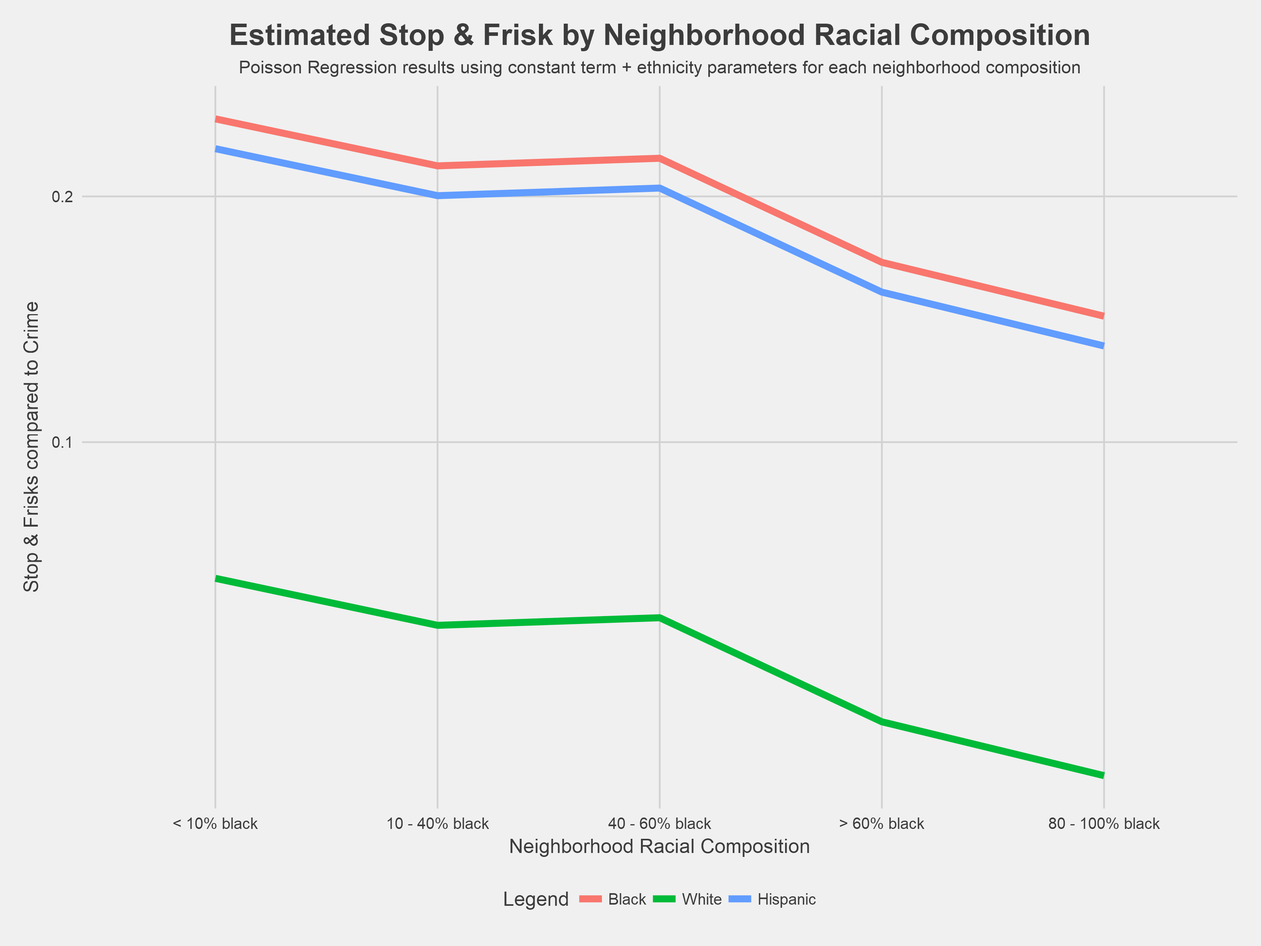
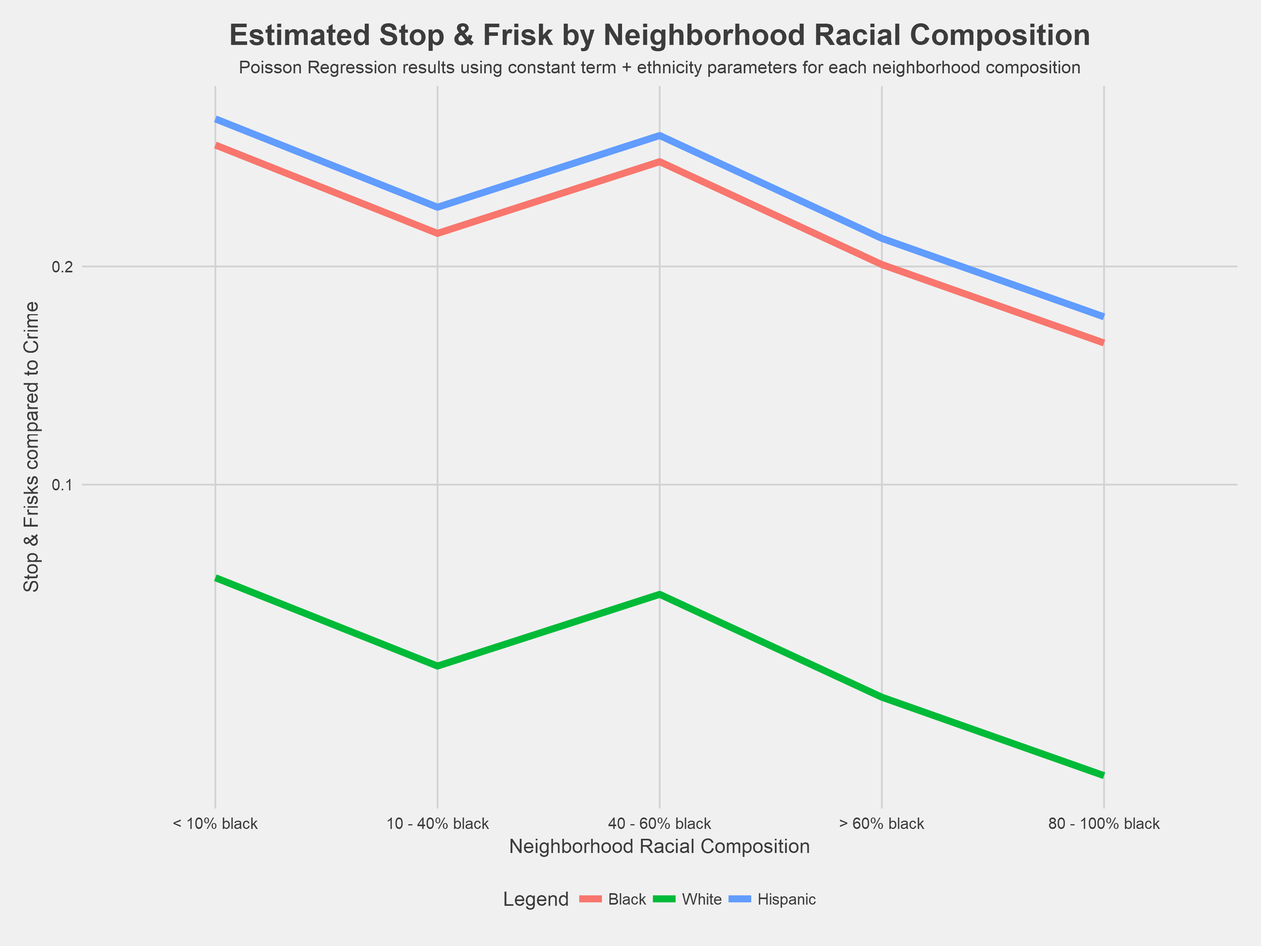
Stop & Frisk: Mahkah's edits

Changed region(s): [[0.1562, 0.125, 0.8747, 0.375], [0.4686, 0.625, 0.8435, 0.8125], [0.1874, 0.5938, 0.4686, 0.7188]]

diff --git a/_posts/2018-05-09-Stop-_-Frisk.md b/_posts/2018-05-09-Stop-_-Frisk.md
@@ -9,11 +9,11 @@ author: August Warren & Mahkah Wu
 Key Findings
 --------------
 
-* Overall, black residents, and particularly young black male residents, were stopped at a rate well in excess of both the proportion of black residents living in DC and the proportion of reported crime committed by black residents. White residents were stopped at a rate lower than the analogous population and crime proportions. Each of Washington DC's 39 neighborhoods have distinct racial makeups, but these disproportionalities persist within all of them. MW: IS IT A PLURALITY, MAJORITY, OR ALL OF THEM?
+* Overall, black residents, and particularly young black male residents, were stopped at a rate well in excess of both the proportion of black residents living in DC and the proportion of reported crime committed by black residents. White residents were stopped at a rate lower than the analogous population and crime proportions. Each of Washington DC's 39 neighborhoods have distinct racial makeups, but these disproportionalities persist within a majority of neighborhoods.
 
-* There exists a strong linear relationship between a neighborhood's annual crime level and that neighborhood's stop and frisk level over the subsequent year. However, neighborhoods with higher black populations have a higher stop and frisk level than this relationship would suggest. Specifically, neighborhoods with the highest concentration of residents of color (90-100% residents of color) have, on average, ~47 more stop and frisk incidents per year compared to whitest neighborhoods (10-40% residents of color MW: OR SHOULD THIS BE 0-10%?) when crime is held constant.
+* There exists a strong linear relationship between a neighborhood's annual crime level and that neighborhood's stop and frisk level over the subsequent year. However, neighborhoods with higher black populations have a higher stop and frisk level than this relationship would suggest. Specifically, neighborhoods with the highest concentration of residents of color (90-100% residents of color) have, on average, ~47 more stop and frisk incidents per year compared to whitest neighborhoods (0-40% residents of color) when crime is held constant.
 
-* Black residents were stopped at a rate 3 times higher than white residents across all DC neighborhoods when attempting to account for criminality by using the respective racial cohort's crime level over the previous year as an offset. The rate generally increases in neighborhoods with a lower proportion of black residents.
+* In 2016, black residents were stopped at a rate 3 times higher than white residents across all DC neighborhoods when attempting to account for criminality by using the respective racial cohort's crime level as an offset. The rate generally increases in neighborhoods with a lower proportion of black residents.
 
 * This analysis includes an [interactive map](https://rawgit.com/mahkah/dc_stop_and_frisk/master/index.html) and [neighborhood explorer application](https://dc-stop-frisk.herokuapp.com/) that enable users to look for trends and patterns not covered in this analysis.
 
@@ -38,9 +38,17 @@ Various DC advocacy organizations, including Black Lives Matter DC, Stop Police 
 
 DC Judiciary and Public Safety Chairman Charles Allen questioned DC Police Chief Peter Newsham as to why the mandated data had not been collected earlier this year; Newsham stated that the MPD [was "guilty" of not following the stop and frisk data collection](https://www.wusa9.com/article/news/local/dc/dc-police-chief-police-guilty-of-not-following-stop-and-frisk-data-collection-law/65-533509822) but had worked to develop other data systems mandated by the NEAR Act. Although the Council allocated $150,000 specifically for stop and frisk data collection in fiscal year 2018, the MPD found [the work of reviewing and sorting the data to be overly "laborious and costly" and did not utilize the funding](https://www.scribd.com/document/374911762/NEAR-Act-Inquiry). The MPD has found the resources and time to building other data systems, including those that highlight crime rather than enforcement, like [DC Crime Cards](https://dcatlas.dcgis.dc.gov/crimecards/).
 
-We didn't come into this project familiar with the inner workings of the NEAR Act or the steps the MPD has taken towards compliance. Rather, there were questions other researchers have tackled that we wanted to investigate in DC, like [this really incredible research on racial disparities in "hit-rates," or arrest rates](https://5harad.com/papers/frisky.pdf), but we were confronted with a lack of detailed data. We will follow the ongoing litigation against the MPD and the Mayor's office and update the work below if further data is provided. If you want to see the NEAR Act fully implemented or want to hold law enforcement accountable and transparent, please consider supporting the work being done by organizations like [Black Lives Matter DC](http://www.blacklivesmatterdmv.org/), [Stop Police Terror Project DC](https://www.sptdc.com/), and [the American Civil Liberties Union of the District of Columbia](https://www.acludc.org/en) in their legal fight.
+If you want to see the NEAR Act fully implemented or want to hold law enforcement accountable and transparent, please consider supporting the work being done by organizations like [Black Lives Matter DC](http://www.blacklivesmatterdmv.org/), [Stop Police Terror Project DC](https://www.sptdc.com/), and [the American Civil Liberties Union of the District of Columbia](https://www.acludc.org/en) in their legal fight.
 
-This a living piece of research that attempts to provide a sense of understanding of a very complex social issue, and we are open to new ideas and viewpoints that we might have missed.
+We didn't come into this project familiar with the inner workings of the NEAR Act or the steps the MPD has taken towards compliance. Rather, there were questions other researchers have tackled that we wanted to investigate in DC, like [this really incredible research on racial disparities in "hit-rates," or arrest rates](https://5harad.com/papers/frisky.pdf), but we were confronted with a lack of detailed data.
+
+The available data did allow us to explore the following research questions: 1) Who is being stopped and frisked by the DC Metropolitan Police Department (MPD)? 2) How does the stop and frisk population compare to the overall population in DC? 3) How much are different groups of people being disproportionally targeted by stop and frisk? 
+
+Along with the stop and frisk data, the MPD also reported on "field contact reports" from 2012 to 2017. According to the [documentation](https://go.mpdconline.com/GO/GO_OPS_304_10.pdf), a field contact is a non-forcible stop and/or questioning between MPD and a citizen, although it is unclear whether citizens stopped non-forcibly know they do not need to speak with police. Forcible contacts make up the lion's share of all interactions, accounting for more than 28,000 incidents over the five years data was collected, compared to about 11,000 non-forcible stops. 
+
+For the majority of the analysis, we made the decision to specifically examine forcible stops. However, we spent a bit of time looking at both forcible and non-forcible stops; this analysis can be found in the [appendix](#appendix).
+
+This a living piece of research that attempts to provide a sense of understanding of a very complex social issue, and we are open to new ideas and viewpoints that we might have missed. We will follow the ongoing litigation against the MPD and the Mayor's office and update the work below if further data is provided. 
 
 Stop & Frisk: Overview
 --------------
@@ -55,7 +63,9 @@ Overall, the vast majority of these incidents involve people of color, specifica
 
 ![](https://raw.githubusercontent.com/GWarrenn/gwarrenn.github.io/drafts/images/stop_and_frisk/sf_race_youths.png)
 
-Age is another important factor in this conversation. Many of the stories underwriting the national conversation about race and policing have involved black youths and the police, often with fatal results. DC does not present a different story. Nearly 1 in 5 black residents stopped from 2010-2017 were children, compared to 2% among whites. Of all the trends analyzed here, we found this disparity to be the most striking. MW: DO YOU AGREE? I DON'T THINK THE OLD SENTENCE MAKES A LOT OF SENSE, BUT I HAVE STRUGGLED MIGHTLY TO COME UP WITH A GOOD REPLACEMENT
+Age is another important factor in this conversation. Many of the stories underwriting the national conversation about race and policing have involved black youths and the police, often with fatal results. DC does not present a different story. Nearly 1 in 5 black residents stopped from 2010-2017 were children, compared to 2% among whites. This trend is supported by [previous research](https://www.apa.org/pubs/journals/releases/psp-a0035663.pdf), which finds that the perceived age of black and Latino juvenile felony suspects is, on average, overestimated by five years.
+
+Of all the trends analyzed here, we found this disparity to be the most striking because of the effect of the trauma during the critical developmental period of childhood. These interactions between police and young black children have a [significant impact on their personal development and views towards police](http://digitalcommons.law.uga.edu/cgi/viewcontent.cgi?article=2059&context=fac_artchop), compounding existing tensions between the police and the communities that they serve. 
 
 ![](https://raw.githubusercontent.com/GWarrenn/gwarrenn.github.io/drafts/images/stop_and_frisk/sf_age_dist.png)
 
@@ -65,36 +75,12 @@ Reflecting the disparity among juvenile residents, black and Hispanic/Latino adu
 
 Generally, the majority of stop and frisk incidents occur after 5:00 PM and before 6:00 AM. There are some minor differences among racial lines. Incidents among whites peak in the late/early hours between 1:00 AM - 4:00 AM, while black residents experience higher frequency of incidents during the evening, with the highest proportion of incidents occurring around 9:00 PM.
 
-Forcible vs. Non-Forcible Incidents 
---------------
-
-MW: WHAT IF WE CALLED THIS AN APPENDIX AND MOVED IT TO THE END?
-
-Along with the stop and frisk data, the MPD also reported on "field contact reports" from 2012 to 2017. According to the [documentation](https://go.mpdconline.com/GO/GO_OPS_304_10.pdf), a field contact is a non-forcible stop and/or questioning between MPD and a citizen, although it is unclear whether citizens stopped non-forcibly know they do not need to speak with police. Forcible contacts make up the lion's share of all interactions, accounting for more than 28,000 incidents over the five years data was collected, compared to about 11,000 non-forcible stops. 
-
-For the majority of the preceding and later analysis, we made the decision to only consider forcible stops. However, we'll spend a bit of time looking at both forcible and non-forcible stops now.
-
-![](https://raw.githubusercontent.com/GWarrenn/gwarrenn.github.io/drafts/images/stop_and_frisk/race_contact.png)
-
-Overall, there is little difference in contact type by race. Around 80% of both non-forcible and forcible involved black residents; however, a slightly greater proportion (2.6%) of non-forcible stops involved white residents (though the total number of forcible stops in general is much higher than the non-forcible stops). 
-
-![](https://raw.githubusercontent.com/GWarrenn/gwarrenn.github.io/drafts/images/stop_and_frisk/gender_race_contact.png)
-
-Across all racial groups and stop types, people identified by MPD as male comprise a majority of incidents. However, there are some notable gender differences by contact type. Overall, women, especially white women, made up a greater proportion of non-forcible than forcible contact with the police. 
-
-Unlike the forcible stop and frisk incidents, the field contact incident data contains a record of what led to the contact, along with the standard demographics.
-
-![](https://raw.githubusercontent.com/GWarrenn/gwarrenn.github.io/drafts/images/stop_and_frisk/reason_for_stop.png)
-
-Keeping the important difference between forcible and non-forcible stops in mind, we see that moving violations were the catalyst for nearly half of the non-forcible encounters among whites, while non-forcible stops of black and Hispanic/Latino residents were initiated more frequently for "Suspicious Vehicles/Persons/Activities" and "Call for Service" (or, someone calling the police).
-
 Mapping Stop & Frisk Incidents
 --------------
 
 A critical part of the data provided by the MPD is a rough location of where the incident took place, generally either a reference to a block (e.g. '4200 BLOCK OF 7TH STREET SE') or a corner (e.g. '46TH STREET NE / CENTRAL AVENUE NE'). In order to get a mappable dataset, we cleaned up these addresses and extracted the incident street names. We merged this data to a full list of block centroids (provided by [DC OpenData](http://opendata.dc.gov/datasets/block-centroids)). We've published the [geocoded data](https://github.com/mahkah/dc_stop_and_frisk/blob/master/transformed_data/SF_Field%20Contact_02202018_locations.csv), as well as scripts to match the data in [R](https://github.com/GWarrenn/dc_data/blob/master/03_stop_frisk/scripts/stop_and_frisk.R) and [python](https://github.com/mahkah/dc_stop_and_frisk/blob/master/location_matching.py).
 
-MW: DID YOU GET A 95% LOCATION MATCH RATE? DOES THAT NOT INCLUDE MISSING ADDRESSES?
-Overall, we were able to match ~92% of the incidents provided by MPD to a latitude and longitude (The remaining addresses were either missing or not specific enough to be matched).
+Overall, we were able to match ~96% of forcible and ~82% of non-forcible incidents provided by MPD to a latitude and longitude (The remaining addresses were either missing or not specific enough to be matched).<sup>1</sup>
 
 Once we transformed the addresses to latitude and longitude, we used the R geospatial package 'sp' to classify each matched incident to one of 39 neighborhood clusters in DC to conduct the rest of the analysis presented here. We also created a district-wide map of stop and frisk incidents over the years by race/ethnicity and gender broken out by ward, neighborhood, police sector, police service area, and census tract. The mapping and associated data can be found [here](https://github.com/mahkah/dc_stop_and_frisk)
 
@@ -139,7 +125,9 @@ Falling between these two polar examples, stop and frisk rates with neighborhood
 
 ![](https://raw.githubusercontent.com/GWarrenn/gwarrenn.github.io/drafts/images/stop_and_frisk/07_nbh_diff_black.png)
 
-This chart shows the same disproportionality as the previous chart but focuses specifically on black residents stopped by MPD. It displays the proportion of stop and frisk incidents minus the census proportions, which is the vertical distance between the points and the diagonal line in the previous chart. 
+This chart shows the same disproportionality as the previous chart but focuses specifically on black residents stopped by MPD. This chart displays the proportion of stop and frisk incidents minus the census proportions. This is the same disproportionality in the previous chart measured by the vertical distance between the points and the diagonal line. 
+
+We can take a closer look at just the black residents stopped by the MPD. The above chat shows the proportion of stop and frisk incidents minus the census proportions, which is the vertical distance between the points and the diagonal line in the previous chart.
 
 The biggest disproportions are apparent in whiter, more affluent neighborhood clusters in Northwest DC, including Cleveland Park, Friendship Heights, Kalorama Heights, and Georgetown.
 
@@ -157,13 +145,15 @@ Throughout this section it's important to keep the words of [Hadley Wickham](htt
 
 How would you answer the question, "what’s the best way to allocate police to reduce crime in the city?" Many might answer: send more officers to areas with the highest amount of reported crimes. 
 
-I think that's how no-nonsense detective [Lennie Briscoe](https://en.wikipedia.org/wiki/Lennie_Briscoe) might respond, at least.
+That's how no-nonsense detective [Lennie Briscoe](https://en.wikipedia.org/wiki/Lennie_Briscoe) might respond, at least.
 
-In order to answer this question, I used crime data provided by the MPD, again through [OpenData DC](http://opendata.dc.gov/datasets?q=crime). Using a similar method as with the stop and frisk data, I matched individual reported crimes to each of the 39 neighborhoods using latitude and longitude provided by the MPD.
+In order to answer this question, we used crime data collected during the same time period as the stop and frisk data provided by the MPD, again through [OpenData DC](http://opendata.dc.gov/datasets?q=crime). Using a similar method as with the stop and frisk data, we matched individual reported crimes to each of the 39 neighborhoods using latitude and longitude provided by the MPD.
+
+This section will test the theory that stop and frisk is used not to target or profile specific neighborhoods based on their racial composition, but rather is used purely as a method to reduce crime by targeting high crime areas by preemptively stopping and questioning potential criminals.   
 
 ![](https://raw.githubusercontent.com/GWarrenn/gwarrenn.github.io/drafts/images/stop_and_frisk/08_crime_frisks.png)
 
-The chart above illustrates a pretty linear relationship between the previous years' reported crime level and stop and frisk in each neighborhood of DC. Of course, there are dozens and dozens of other confounding variables that influence crime and policing behavior not being considered in this simplistic approach, but if you were only to use this one variable to predict stop and frisk, you would end up with a model<sup>1</sup> like this:
+The chart above illustrates a pretty linear relationship between the previous years' reported crime level and stop and frisk in each neighborhood of DC. Of course, there are dozens and dozens of other confounding variables that influence crime and policing behavior not being considered in this simplistic approach, but if you were only to use this one variable to predict stop and frisk, you would end up with a model<sup>2</sup> like this:
 
 <table style="text-align:center"><tr><td colspan="2" style="border-bottom: 1px solid black"></td></tr><tr><td style="text-align:left"></td><td><em>Dependent variable:</em></td></tr>
 <tr><td></td><td colspan="1" style="border-bottom: 1px solid black"></td></tr>
@@ -223,11 +213,8 @@ Now that we see a clear need to incorporate the neighborhood's racial compositio
 
 The regression output below shows a fairly similar overall relationship between crime and stop and frisk. However, the crime & race model indicates that there is a statistically significant difference between the amount of stop and frisk in neighborhoods with 90% - 100% residents of color compared to the base category -- neighborhoods with 10% - 40% residents of color. There is no statistically significant difference observed with the intermediate neighborhood types.
 
-
 <details><summary><b>Click for an explanation of the regression model output</b></summary>
 <p>
-
-MW: I'M ASSUMING THESE DOLLAR SIGNS ARE FOR FORMATTING, BUT THEY'RE JUST COMING THROUGH AS DOLLAR SIGNS FOR ME
 
 $Total Stop & Frisk = (Prev. Year Crime * 0.102) + N$
 
@@ -273,7 +260,7 @@ Before we get into the personal level relationship between stop and frisk and cr
 
 ![](https://raw.githubusercontent.com/GWarrenn/gwarrenn.github.io/drafts/images/stop_and_frisk/crime_and_census_plot.png)
 
-One of the more apparent patterns we find is that black residents make up a larger proportion of <i>reported</i> crime in less black DC neighborhoods. The reasons for this are not apparent in the data; there are certain social factors that could cause this, such as [white residents being more likely to call the police](https://www.vox.com/first-person/2018/5/17/17362100/starbucks-racial-profiling-yale-airbnb-911) or black residents may simply commit a disproportionate share of crimes in these neighborhoods. MW: MAYBE TALKING ABOUT THIS TREND DOESN'T TAKE YOU IN A PLACE THAT YOU WANT TO GO
+One of the more apparent patterns we find is that black residents make up a larger proportion of <i>reported</i> crime in less black DC neighborhoods. The reasons for this are not apparent in the data; there are certain social factors that could cause this, such as [white residents being more likely to call the police](https://www.vox.com/first-person/2018/5/17/17362100/starbucks-racial-profiling-yale-airbnb-911) or black residents may simply commit a disproportionate share of crimes in these neighborhoods. The answers to this question are not immediately available and any conclusive takeaways are cautioned.
 
 ---
 
@@ -291,55 +278,54 @@ Likewise, the stop and frisk rate is lower than the reported crime rate among wh
 
 As in the population comparison, Cleveland Park/Woodley Park, Downtown Chinatown, and Shaw/Logan Circle stand out as containing the highest disproportionality between black and white residents.
 
-Building off the "crime-only" model, now that we have access to demographic crime data, we can start to look at the relationship between stop and frisk using individual demographics of those stopped, rather than at a neighborhood level as we did previously. Except rather than using a linear regression to model the data, we'll use a Poisson regression<sup>2</sup>, which is specifically geared toward modeling count data and, when combined with an offset, rate data. This work is largely built off the research conducted by [Gelman, Fagan and Kiss (2007)]("http://www.stat.columbia.edu/~gelman/research/published/frisk9.pdf") examining stop and frisk in New York City in the late 1990's. The specific Poisson model used here will estimate stop and frisk for each neighborhood and take the total number of crimes for that racial group as an offset, establishing a stop & frisk to crime ratio (Gelman et al. used the previous year, however we only have access to the same years' crime data by race MW: IS THIS STILL TRUE? MAYBE JUST REPHRASE TO OMIT THE BECAUSE). The model controls for the race of the person stopped and the racial composition of the neighborhood in which they were stopped.
+Building off the "crime-only" model, now that we have access to demographic crime data, we can start to look at the relationship between stop and frisk using individual demographics of those stopped, rather than at a neighborhood level as we did previously. Except rather than using a linear regression to model the data, we'll use a Poisson regression<sup>3</sup>, which is specifically geared toward modeling count data and, when combined with an offset, rate data. This work is largely built off the research conducted by [Gelman, Fagan and Kiss (2007)]("http://www.stat.columbia.edu/~gelman/research/published/frisk9.pdf") examining stop and frisk in New York City in the late 1990's. The specific Poisson model used here will estimate stop and frisk for each neighborhood and take the total number of crimes for that racial group as an offset, establishing a stop & frisk to crime ratio. The model controls for the race of the person stopped and the racial composition of the neighborhood in which they were stopped.
 
 <table style="text-align:center"><tr><td colspan="2" style="border-bottom: 1px solid black"></td></tr><tr><td style="text-align:left"></td><td><em>Dependent variable:</em></td></tr>
 <tr><td></td><td colspan="1" style="border-bottom: 1px solid black"></td></tr>
 <tr><td style="text-align:left"></td><td>Stop & Frisk</td></tr>
-<tr><td colspan="2" style="border-bottom: 1px solid black"></td></tr><tr><td style="text-align:left">Race: Black</td><td>1.280<sup>***</sup></td></tr>
-<tr><td style="text-align:left"></td><td>(0.189)</td></tr>
+<tr><td colspan="2" style="border-bottom: 1px solid black"></td></tr><tr><td style="text-align:left">Race: Black</td><td>1.375<sup>***</sup></td></tr>
+<tr><td style="text-align:left"></td><td>(0.206)</td></tr>
 <tr><td style="text-align:left"></td><td></td></tr>
-<tr><td style="text-align:left">Race: Hispanic/Latino</td><td>1.188<sup>***</sup></td></tr>
-<tr><td style="text-align:left"></td><td>(0.232)</td></tr>
+<tr><td style="text-align:left">Race: Hispanic/Latino</td><td>1.458<sup>***</sup></td></tr>
+<tr><td style="text-align:left"></td><td>(0.245)</td></tr>
 <tr><td style="text-align:left"></td><td></td></tr>
-<tr><td style="text-align:left">Neighborhood Percent Black: 10% - 40%</td><td>-0.149</td></tr>
-<tr><td style="text-align:left"></td><td>(0.157)</td></tr>
+<tr><td style="text-align:left">Neighborhood Percent Black: 10% - 40%</td><td>-0.281<sup>*</sup></td></tr>
+<tr><td style="text-align:left"></td><td>(0.163)</td></tr>
 <tr><td style="text-align:left"></td><td></td></tr>
-<tr><td style="text-align:left">Neighborhood Percent Black: 40% - 60%</td><td>-0.143</td></tr>
-<tr><td style="text-align:left"></td><td>(0.178)</td></tr>
+<tr><td style="text-align:left">Neighborhood Percent Black: 40% - 60%</td><td>-0.053</td></tr>
+<tr><td style="text-align:left"></td><td>(0.181)</td></tr>
 <tr><td style="text-align:left"></td><td></td></tr>
-<tr><td style="text-align:left">Neighborhood Percent Black: 60% - 80%</td><td>-0.446<sup>**</sup></td></tr>
-<tr><td style="text-align:left"></td><td>(0.169)</td></tr>
+<tr><td style="text-align:left">Neighborhood Percent Black: 60% - 80%</td><td>-0.380<sup>**</sup></td></tr>
+<tr><td style="text-align:left"></td><td>(0.172)</td></tr>
 <tr><td style="text-align:left"></td><td></td></tr>
-<tr><td style="text-align:left">Neighborhood Percent Black: 80% - 100%</td><td>-0.595<sup>***</sup></td></tr>
-<tr><td style="text-align:left"></td><td>(0.154)</td></tr>
+<tr><td style="text-align:left">Neighborhood Percent Black: 80% - 100%</td><td>-0.629<sup>***</sup></td></tr>
+<tr><td style="text-align:left"></td><td>(0.159)</td></tr>
 <tr><td style="text-align:left"></td><td></td></tr>
-<tr><td style="text-align:left">Constant</td><td>-2.669<sup>***</sup></td></tr>
-<tr><td style="text-align:left"></td><td>(0.207)</td></tr>
+<tr><td style="text-align:left">Constant</td><td>-2.598<sup>***</sup></td></tr>
+<tr><td style="text-align:left"></td><td>(0.220)</td></tr>
 <tr><td style="text-align:left"></td><td></td></tr>
-<tr><td colspan="2" style="border-bottom: 1px solid black"></td></tr><tr><td style="text-align:left">Observations</td><td>89</td></tr>
+<tr><td colspan="2" style="border-bottom: 1px solid black"></td></tr><tr><td style="text-align:left">Observations</td><td>93</td></tr>
 <tr><td colspan="2" style="border-bottom: 1px solid black"></td></tr><tr><td style="text-align:left"><em>Note:</em></td><td style="text-align:right"><sup>*</sup>p<0.1; <sup>**</sup>p<0.05; <sup>***</sup>p<0.01</td></tr>
 </table>
 
+There are plenty of [great (better*) resources](http://www.jerrydallal.com/lhsp/poisson.htm) that can explain the details of Poisson regressions. However, if you're like me and just want to skim the relevant [Cross-Validated/Stack Overflow](https://stats.stackexchange.com/questions/11096/how-to-interpret-coefficients-in-a-poisson-regression) posts to know the gist of how the model should be interpreted, then here's a quick explanation of the results above: The parameters displayed represent the multiplicative increase in stop and frisk for all neighborhood race compositions compared to the specific base factor. For the race independent variable, the base category is white and for the neighborhood black compositions, the base category is 0% - 10% black.
 
-There are plenty of great (better*) resources that can explain the details of Poisson regressions MW: DO YOU HAVE ONE IN MIND WE CAN HYPERLINK TO?. However, if you're like me and just want to skim the relevant Cross-Validated/Stack Overflow posts to know the gist of how the model should be interpreted, then here's a quick explanation of the results above: The parameters displayed represent the multiplicative increase in stop and frisk for all neighborhood race compositions compared to the specific base factor. For the race independent variable, the base category is white and for the neighborhood black compositions, the base category is 0% - 10% black.
-
-Translation: Across all neighborhoods in the District, black and Hispanic/Latino residents are stopped at a rate higher than their crime rate and are stopped 3.6 (exp(1.28)) and 3.3 (exp(1.188)) times more than white residents respectively, controlling for each group's crime rate and neighborhood racial composition. MW: HOW DOES ONE INTERPRET THE NEIGHBORHOOD OUTPUTS? IS IT CORRECT TO SAY: "Conversely, a resident is stopped 55% (exp(-0.595)) as often in predominantly black neighborhoods (80-100%) then in predominantly non-black neighborhoods (0-10%), controlling for the race of the resident and each group's crime rate."
+Translation: Across all neighborhoods in the District, black and Hispanic/Latino residents are stopped at a rate 3.95 (exp(1.375)) and 4.3 (exp(1.458) - 1) times higher than their crime rate, compared white residents respectively, controlling for each group's previous year crime rate and neighborhood racial composition. 
 
 ![](https://raw.githubusercontent.com/GWarrenn/gwarrenn.github.io/drafts/images/stop_and_frisk/13_poisson_plot.png)
 
 Following in the footsteps of Gelman et al., the chart above shows the estimated rates each racial group were stopped by neighborhood racial composition. The pattern we observed at the District-level tends to hold true across neighborhoods of varying racial composition; Black and Hispanic/Latino residents are stopped at higher rates than white residents across all neighborhood types. 
 
+While the previous research illustrated that stop and frisk is generally concentrated in neighborhoods with higher proportions of residents of color, this model shows that the ratio of stop and frisk to crime is <i>higher</i> in whiter neighborhoods among black and Hispanic/Latino residents because of a disproportionately lower crime rate coupled with a relatively higher amount of stop and frisk in these neighborhoods. 
+
 Conclusion
 --------------
-MW: NOT WEDDED TO THIS BUT WANTED TO AVOID RESTATING THE KEY FINDINGS. I THINK A LITTLE STRONG AND A LITTLE TONALLY DISSONANT IN ITS CURRENT FORM
+
 The availability of stop and frisk data in DC provides a unique and thought-provoking opportunity to examine how different areas of the city experience policing. This research found, consistent with other research, racial inequity and disproportionality in who was stopped and frisked in DC.
 
-This finding is not surprising; likely the first thing that any casual observer of this data would notice is that over 80% of the MPD's 30,000 stops involved black residents. The observer would likely discover shortly thereafter that nearly 1 in 5 of this 80% were juveniles and 1 in 10 were male. These numbers are so obviously disproportionate that it would be shocking if modeling uncovered an explanation justifying this policing, although we gave it our best shot.
+This finding is not surprising; likely the first thing that any casual observer of this data would notice is that over 80% of the MPD's 30,000 stops involved black residents. The observer would likely discover shortly thereafter that nearly 1 in 5 of this 80% were juveniles and 9 in 10 were male. These numbers are so obviously disproportionate that it would be shocking if modeling uncovered an explanation justifying this policing.
 
-This is not a practice that's waning, like the NYPD's stop and frisk program, or even one that is static. Rather, the MPD has steadily increased the frequency of these stops. They've done so while deliberately failing to comply with a law requiring them to collect and release data about, among other things, the legal basis for the stops. 
-
-We find these trends troubling, so we'd like to sign off by again recognizing those organizing, legislating, and litigating for a more just and equitable DC: [Black Lives Matter DC](http://www.blacklivesmatterdmv.org/), [Stop Police Terror Project DC](https://www.sptdc.com/), and [the American Civil Liberties Union of the District of Columbia](https://www.acludc.org/en)
+This is not a practice that's waning, like the NYPD's stop and frisk program, or even one that is static. Rather, the MPD has steadily increased the frequency of these stops, while failing to comply with a law requiring them to collect and release data about, among other things, the legal basis for the stops. 
 
 Notes & Thanks
 --------------
@@ -348,11 +334,31 @@ All of the code used for this project can be found [here](https://github.com/GWa
 
 Thank you to the DC Office of the Chief Technology Officer and the DC Metropolitan Police Department for making the [stop and frisk data](https://mpdc.dc.gov/publication/stop-and-frisk-data-and-explanatory-notes) used in this analysis readily available and accessible. We hope that you find the resources and labor necessary to collect and release the remaining data fields required by law.
 
-MW: SHOULD WE THANK OUR EDITORS AND CONSULTANTS?
+Finally, thank you to Mika Weinstein, Caroline Chen, and Nicole McAllister  for providing critical insights and perspectives that helped shape and hone this research. 
+
+<a name="appendix"></a>
+Appendix: Forcible vs. Non-Forcible Incidents 
+--------------
+
+As previously mentioned, we decided to only look at stop and frisk incidents, classified as forcible encounters, for the analysis. However,  
+
+![](https://raw.githubusercontent.com/GWarrenn/gwarrenn.github.io/drafts/images/stop_and_frisk/race_contact.png)
+
+Overall, there is little difference in contact type by race. Around 80% of both non-forcible and forcible involved black residents; however, a slightly greater proportion (2.6%) of non-forcible stops involved white residents (though the total number of forcible stops in general is much higher than the non-forcible stops). 
+
+![](https://raw.githubusercontent.com/GWarrenn/gwarrenn.github.io/drafts/images/stop_and_frisk/gender_race_contact.png)
+
+Across all racial groups and stop types, people identified by MPD as male comprise a majority of incidents. However, there are some notable gender differences by contact type. Overall, women, especially white women, made up a greater proportion of non-forcible than forcible contact with the police. 
+
+Unlike the forcible stop and frisk incidents, the field contact incident data contains a record of what led to the contact, along with the standard demographics.
+
+![](https://raw.githubusercontent.com/GWarrenn/gwarrenn.github.io/drafts/images/stop_and_frisk/reason_for_stop.png)
+
+Keeping the important difference between forcible and non-forcible stops in mind, we see that moving violations were the catalyst for nearly half of the non-forcible encounters among whites, while non-forcible stops of black and Hispanic/Latino residents were initiated more frequently for "Suspicious Vehicles/Persons/Activities" and "Call for Service" (or, someone calling the police).
 
 Footnotes
 --------------
-<sup>1</sup> For the "crime-only" & "crime & race" models, I created a simple linear regression in R using the lm() function. The independent variable was the previous years' average amount of crime in the neighborhood and the dependent variable was the current years' average amount of stop and frisk, as illustrated below. Rather than run the model for all years and neighborhoods, I rolled up each neighborhood and took the average crime and stop and frisk. 
+<sup>2</sup> For the "crime-only" & "crime & race" models, I created a simple linear regression in R using the lm() function. The independent variable was the previous years' average amount of crime in the neighborhood and the dependent variable was the current years' average amount of stop and frisk, as illustrated below. Rather than run the model for all years and neighborhoods, I rolled up each neighborhood and took the average crime and stop and frisk. 
 
 ```R
 yearly_model <- lm(formula = avg_sf ~ avg_prev_yr_crime,
@@ -362,7 +368,7 @@ yearly_model_w_race <- lm(formula = avg_sf ~ avg_prev_yr_crime + coll_bins,
                    data = nbh_sf_avg)                      
 ```
 
-<sup>2</sup> Poisson model details below:
+<sup>3</sup> Poisson model details below:
 
 ```R
 stop_model <- glm(stop_frisks ~ race_ethn + nbh_black_bins, family=quasipoisson,
